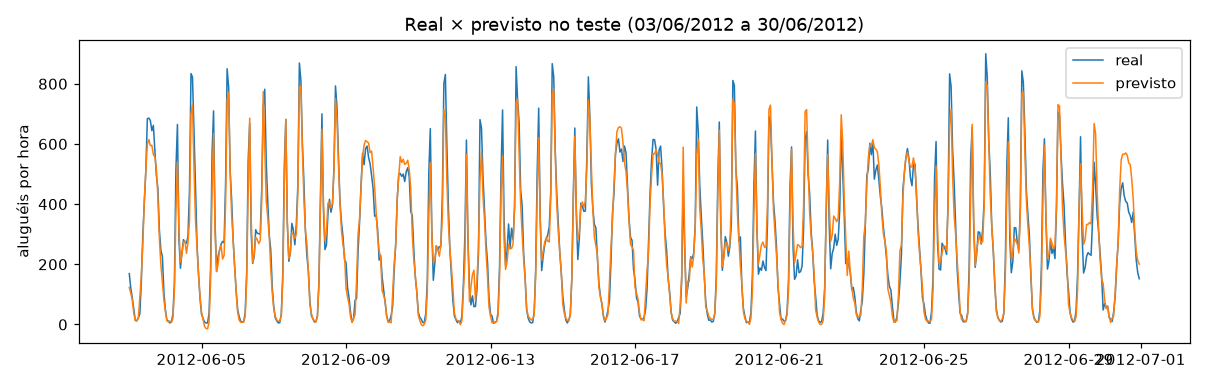
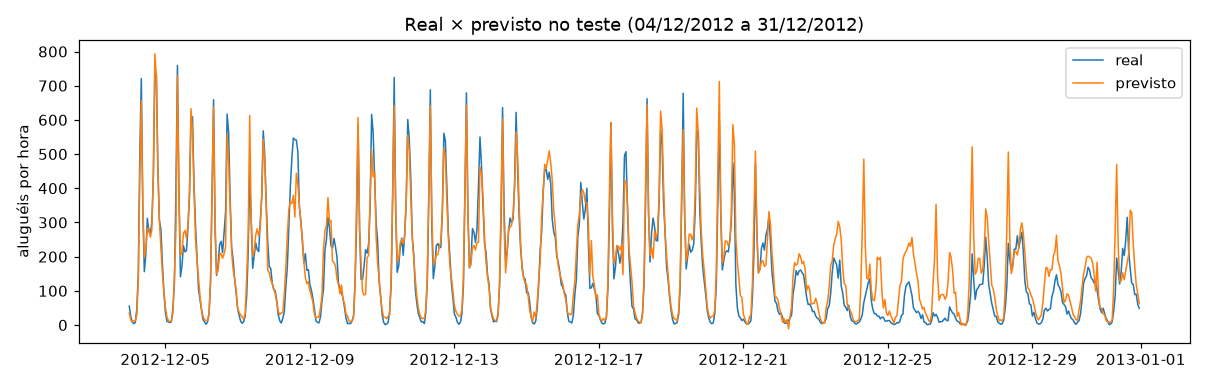
Desafio 1: dados v3, comparacao e decisao

diff --git a/desafio01/compare_models.py b/desafio01/compare_models.py
@@ -1,0 +1,76 @@
+"""Desafio 1: compara @champion e @challenger no MESMO conjunto de teste.
+
+Rode da raiz do repositório:
+    python desafio01/compare_models.py              # só compara (é o que o estágio `compare` roda)
+    python desafio01/compare_models.py --promover   # compara e aplica a decisão no Registry
+
+Complete os 3 trechos marcados com TODO.
+"""
+import argparse
+import json
+import sys
+from pathlib import Path
+
+import mlflow
+import pandas as pd
+from mlflow import MlflowClient
+
+sys.path.insert(0, "src")
+from bike import MODEL_NAME, regression_metrics, tracking_uri, xy  # noqa: E402
+
+parser = argparse.ArgumentParser()
+parser.add_argument("--promover", action="store_true", help="aplica a decisão no Registry")
+args = parser.parse_args()
+
+mlflow.set_tracking_uri(tracking_uri())
+client = MlflowClient()
+
+# 1) O candidato é a versão criada pelo último treino do pipeline
+nova_versao = json.load(open("models/run.json"))["model_version"]
+client.set_registered_model_alias(MODEL_NAME, "challenger", nova_versao)
+
+# 2) O mesmo teste para os dois: o período mais recente
+test = pd.read_csv("data/split/test.csv")
+X, y = xy(test)
+
+resultado = {}
+for alias in ["champion", "challenger"]:
+    versao = int(client.get_model_version_by_alias(MODEL_NAME, alias).version)
+    # TODO 1: carregue o modelo pelo alias (dica: mlflow.pyfunc.load_model, como na função avaliar da T3)
+    #model = ...
+    model = mlflow.pyfunc.load_model(f"models:/{MODEL_NAME}@{alias}")
+    # TODO 2: calcule as métricas desse modelo em X, y (dica: regression_metrics)
+    #metricas = ...
+    metricas = regression_metrics(y, model.predict(X))
+    resultado[alias] = {"versao": versao, **metricas}
+
+resultado["teste"] = {"inicio": test["dteday"].min(), "fim": test["dteday"].max(), "linhas": len(test)}
+Path("reports").mkdir(exist_ok=True)
+json.dump(resultado, open("reports/comparacao.json", "w"), indent=2)
+
+champ, chall = resultado["champion"], resultado["challenger"]
+print(pd.DataFrame({"champion": champ, "challenger": chall}).T.round(3))
+periodo = f"{test['dteday'].min()} a {test['dteday'].max()}"
+print(f"\nTeste: {periodo} ({len(test)} linhas)")
+
+# TODO 3: a regra de decisão. O challenger vence se o RMSE dele for menor que o do champion
+# venceu = ...
+venceu = chall["rmse"] < champ["rmse"]
+print(f"Challenger {'VENCEU' if venceu else 'NÃO venceu'}: "
+      f"RMSE {chall['rmse']:.1f} vs {champ['rmse']:.1f} (champion)")
+
+# 3) Decisão de governança, registrada na própria versão (só com --promover)
+if args.promover:
+    v = str(chall["versao"])
+    motivo = f"RMSE {chall['rmse']:.1f} vs {champ['rmse']:.1f} do champion v{champ['versao']} no teste {periodo}"
+    client.set_model_version_tag(MODEL_NAME, v, "motivo", motivo)
+    if venceu:
+        client.set_model_version_tag(MODEL_NAME, v, "decisao", "promovido")
+        client.set_model_version_tag(MODEL_NAME, v, "validation_status", "approved")
+        client.set_model_version_tag(MODEL_NAME, v, "previous_champion", str(champ["versao"]))
+        client.set_registered_model_alias(MODEL_NAME, "champion", v)
+        client.delete_registered_model_alias(MODEL_NAME, "challenger")
+        print(f"✅ Promovido: champion -> versão {v} (anterior: {champ['versao']})")
+    else:
+        client.set_model_version_tag(MODEL_NAME, v, "decisao", "rejeitado")
+        print(f"❌ Rejeitado: champion continua na versão {champ['versao']}")

diff --git a/desafio01/README.md b/desafio01/README.md
@@ -1,0 +1,94 @@
+# Desafio 1: chegaram dados novos
+
+**Contexto.** É janeiro de 2013. O time de operações exportou os dados do 2º semestre de 2012.
+Sua missão: versionar os dados, retreinar com o pipeline e **decidir, com evidência**, se o
+modelo novo deve substituir o `@champion`.
+
+**Pré-requisitos:** T0–T4 concluídas no seu Codespace e o servidor MLflow no ar
+(`bash scripts/start_mlflow.sh` em um terminal).
+
+**Antes de começar:** arraste a pasta `desafio01/` para a raiz do seu repositório no Codespace
+(no explorador de arquivos, ao lado de `src/` e `params.yaml`).
+
+**O que você recebe e o que você constrói:**
+
+| O que você recebe | O que você constrói |
+|---|---|
+| Os comandos para versionar os dados v3 (abaixo) | A versão `dados-v3` |
+| `desafio01/compare_models.py`, com a estrutura da comparação | Os 3 trechos marcados com `TODO` (carregar, medir, decidir) |
+| O pipeline da T1, com 5 estágios | O 6º estágio, `compare`, no `dvc.yaml` |
+| `desafio01/RELATORIO.md`, com as seções | As tabelas e a decisão justificada |
+
+## Passo 1: dados v3 (a receita da T4)
+
+```bash
+python src/get_data.py --until 2012-12-31
+dvc add data/raw/bike.csv
+git add data/raw/bike.csv.dvc
+git commit -m "Dados v3: 2012 completo"
+git tag dados-v3
+dvc push
+```
+
+## Passo 2: complete o `compare_models.py`
+
+Abra `desafio01/compare_models.py` e complete os 3 `TODO`. As dicas estão no próprio arquivo.
+O script avalia `@champion` e `@challenger` **no mesmo teste** e grava `reports/comparacao.json`.
+
+## Passo 3: escreva o estágio `compare` no `dvc.yaml`
+
+Acrescente um 6º estágio no fim do `dvc.yaml`, no mesmo molde dos estágios da T1:
+
+| Chave | O que colocar |
+|---|---|
+| `cmd` | `python desafio01/compare_models.py` |
+| `deps` | o próprio script, a pasta `models` e `data/split/test.csv` |
+| `metrics` | `reports/comparacao.json`, com `cache: false` (igual ao `metrics.json` do `evaluate`) |
+
+Confira com `dvc dag`: o `compare` deve aparecer depois do `train`.
+
+## Passo 4: retreinar e comparar
+
+```bash
+dvc repro                    # prepare → split → train (nova versão no Registry) → evaluate, plot e compare
+cat reports/comparacao.json
+dvc metrics diff             
+dvc push
+```
+
+## Passo 5: decidir
+
+```bash
+python desafio01/compare_models.py --promover
+```
+
+Com `--promover`, o script aplica a decisão no Registry: grava as tags `decisao` e `motivo` na versão nova
+e, se ela venceu, move o `@champion` (guardando `previous_champion`). Confira na interface: **Models → bike-demand**.
+
+## Passo 6: relatório
+
+Preencha `desafio01/RELATORIO.md`. As instruções estão em cada seção.
+
+## Passo 7: entrega
+
+```bash
+git add dvc.yaml dvc.lock metrics.json reports/ desafio01/
+git commit -m "Desafio 1: dados v3, estágio compare e decisão"
+git push
+git push --tags
+```
+
+Envie o link do repositório no Canvas.
+
+## Critérios de avaliação (10 pontos)
+
+| Critério | O que vou conferir no repositório | Pontos |
+|---|---|---|
+| Dados v3 versionados | tag `dados-v3`, `bike.csv.dvc` no Git, `dvc push` feito | 2 |
+| Estágio `compare` | no `dvc.yaml` e no `dvc.lock` (6 estágios) | 3 |
+| Comparação justa | `compare_models.py` completo e `reports/comparacao.json` commitado | 1 |
+| Governança | `@champion` correto; tags `decisao`, `motivo` e `previous_champion` | 1 |
+| Relatório | tabelas preenchidas e decisão justificada | 3 |
+
+> 💡 O MLflow desta aula vive **dentro do seu Codespace**. Não apague o Codespace antes da Aula 2.
+> Codespaces parados são apagados automaticamente após um período sem uso (30 dias, por padrão).

diff --git a/desafio01/RELATORIO.md b/desafio01/RELATORIO.md
@@ -1,0 +1,51 @@
+# Desafio 1: relatório
+
+**Aluno(a): Fabrício Tonetto Londero**
+
+**Repositório:** https://github.com/Ernakh/desafio1_mlops
+
+## 1. Versões dos dados
+
+Rode o comando abaixo e complete a tabela com os 8 primeiros caracteres de cada md5:
+
+```bash
+for tag in dados-v1 dados-v2 dados-v3; do
+  echo "$tag $(git show $tag:data/raw/bike.csv.dvc | awk '/md5/{print $3}')"
+done
+```
+
+| Tag | md5 (8 primeiros caracteres) | Período |
+|---|---|---|
+| `dados-v1` | `fc7d423a` | 01/01/2011 a 31/12/2011 |
+| `dados-v2` | `11e40c60` | 01/01/2011 a 30/06/2012 |
+| `dados-v3` | `7747b2ef` | 01/01/2011 a 31/12/2012 |
+
+## 2. Comparação no mesmo teste
+
+Copie os números de `reports/comparacao.json`.
+
+**Período do teste:** ___ a ___ (___ linhas)
+
+| Alias         |Versão | RMSE   | MAE    | R²    |
+|---------------|-------|--------|--------|-------|
+| `@champion`   |  4.0  | 90.753 | 62.872 | 0.683 |
+| `@challenger` |  6.0  | 62.894 | 41.50  | 0.848 |
+
+## 3. Decisão
+
+**Promovido ou rejeitado?** Promovido
+
+**Justificativa (2 a 3 frases):**  No mesmo conjunto de teste, a versão 6 obteve RMSE de 62,894, enquanto a versão 4 obteve 90,753. Isso representa uma redução de aproximadamente 30,7% no RMSE. Como a regra é promover o candidato quando seu RMSE for menor, o alias `champion` passou para a versão 6 e a versão 4 foi registrada em `previous_champion`.
+
+## 4. O que cada ferramenta fez nesse projeto?
+
+**Pergunta 01:**
+Com suas palavras, quais os dois usos do DVC nesse projeto?
+
+Usei o DVC para versionar os três recortes da base de dados. O arquivo `bike.csv.dvc` guarda o hash que identifica cada versão, e as tags `dados-v1`, `dados-v2` e `dados-v3` permitem localizar esses estados no git. Também usei para executar o pipeline definido no `dvc.yaml`. Quando acrescentei os dados da v3, o `dvc repro` rodou os estágios afetados e gerou a comparação entre os modelos.
+
+
+**Pergunta 02:**
+Com suas palavras, para que serve o MLflow nesse projeto?
+
+Foi usaod para registrar os treinos, seus parâmetros, métricas e modelos. O Model Registry permitiu identificar a versão em uso pelo alias `champion` e avaliar a candidata pelo alias `challenger`. Na promoção, o script registrou a decisão e o motivo nas tags da versão 6 e guardou o número da versão anterior para possbilitar um rollback.
